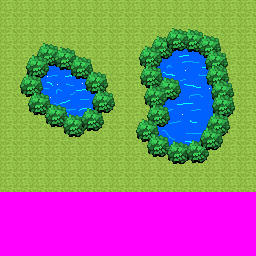
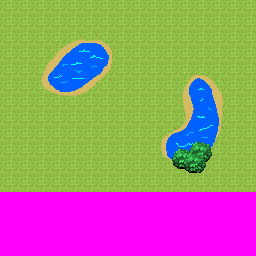
New map

Changed region(s): [[0.5312, 0.0938, 0.9375, 0.6875], [0.0625, 0.1562, 0.4688, 0.5312]]

diff --git a/source/main.c b/source/main.c
@@ -63,20 +63,20 @@ int main(void){
         memset(&w.monsterGrid, -1, 2*16*24);
 
         s16 map[16][24] = {{-1, -1, -1, -1, -1, -1, -1, -1, -1, -1, -1, -1, -1, -1, -1, -1, -1, -1, -1, -1, -1, -1, -1, -1},
-                           {-1, -1, -1, -1, -1, 255, -1, -1, -1, -1, -1, -1, -1, -1, -1, -1, -1, 255, -1, -1, -1, -1, -1, -1},
-                           {-1, -1, -1, 255, 255, 255, 255, -1, -1, -1, -1, -1, -1, -1, -1, 255, 255, 255, 255, -1, -1, -1, -1, -1},
-                           {-1, -1, -1, 255, 255, 255, 255, 255, -1, -1, -1, -1, -1, -1, -1, 255, 255, 255, 255, 255, -1, -1, -1, -1},
-                           {-1, -1, -1, 255, 255, 255, 255, 255, 255, -1, -1, -1, -1, -1, -1, 255, 255, 255, 255, 255, 255, -1, -1, -1},
-                           {-1, -1, -1, -1, 255, 255, 255, 255, -1, -1, -1, -1, -1, -1, -1, -1, 255, 255, 255, 255, -1, -1, -1, -1},
-                           {-1, -1, -1, -1, -1, 255, 255, -1, -1, -1, -1, -1, -1, -1, -1, -1, -1, 255, 255, -1, -1, -1, -1, -1},
                            {-1, -1, -1, -1, -1, -1, -1, -1, -1, -1, -1, -1, -1, -1, -1, -1, -1, -1, -1, -1, -1, -1, -1, -1},
                            {-1, -1, -1, -1, -1, -1, -1, -1, -1, -1, -1, -1, -1, -1, -1, -1, -1, -1, -1, -1, -1, -1, -1, -1},
-                           {-1, -1, 255, 255, 255, 255, 255, 255, 255, 255, -1, -1, -1, -1, 255, 255, 255, 255, 255, 255, 255, 255, -1, -1},
-                           {-1, -1, 255, 255, 255, 255, 255, 255, 255, 255, -1, -1, -1, -1, 255, 255, 255, 255, 255, 255, 255, 255, -1, -1},
-                           {-1, -1, 255, 255, 255, 255, 255, 255, 255, 255, -1, -1, -1, -1, 255, 255, 255, 255, 255, 255, 255, 255, -1, -1},
-                           {-1, -1, 255, 255, 255, 255, 255, 255, 255, 255, -1, -1, -1, -1, 255, 255, 255, 255, 255, 255, 255, 255, -1, -1},
-                           {-1, -1, 255, 255, 255, 255, 255, 255, 255, -1, -1, -1, -1, -1, 255, 255, 255, 255, 255, 255, 255, -1, -1, -1},
-                           {-1, -1, -1, -1, -1, 255, 255, -1, -1, -1, -1, -1, -1, -1, -1, -1, -1, 255, 255, -1, -1, -1, -1, -1},
+                           {-1, -1, -1, -1, 255, 255, -1, -1, -1, -1, -1, -1, -1, -1, -1, -1, 255, 255, -1, -1, -1, -1, -1, -1},
+                           {-1, -1, -1, 255, 255, 255, -1, -1, -1, -1, -1, -1, -1, -1, -1, 255, 255, 255, -1, -1, -1, -1, -1, -1},
+                           {-1, -1, 255, 255, 255, -1, -1, -1, -1, -1, -1, -1, -1, -1, 255, 255, 255, -1, -1, -1, -1, -1, -1, -1},
+                           {-1, -1, -1, 255, 255, -1, -1, -1, -1, -1, -1, -1, -1, -1, -1, 255, 255, -1, -1, -1, -1, -1, -1, -1},
+                           {-1, -1, -1, -1, -1, -1, -1, -1, -1, -1, -1, -1, -1, -1, -1, -1, -1, -1, -1, -1, -1, -1, -1, -1},
+                           {-1, -1, -1, -1, -1, -1, -1, -1, -1, -1, -1, -1, -1, -1, -1, -1, -1, -1, -1, -1, -1, -1, -1, -1},
+                           {-1, -1, -1, -1, -1, -1, -1, -1, -1, -1, -1, -1, -1, -1, -1, -1, -1, -1, -1, -1, -1, -1, -1, -1},
+                           {-1, -1, -1, -1, -1, -1, -1, -1, 255, 255, -1, -1, -1, -1, -1, -1, -1, -1, -1, -1, 255, 255, -1, -1},
+                           {-1, -1, -1, -1, -1, -1, -1, -1, 255, 255, -1, -1, -1, -1, -1, -1, -1, -1, -1, -1, 255, 255, -1, -1},
+                           {-1, -1, -1, -1, -1, 255, 255, 255, 255, 255, 255, -1, -1, -1, -1, -1, -1, 255, 255, 255, 255, 255, 255, -1},
+                           {-1, -1, -1, -1, -1, -1, 255, 255, 255, -1, -1, -1, -1, -1, -1, -1, -1, -1, 255, 255, 255, -1, -1, -1},
+                           {-1, -1, -1, -1, -1, -1, -1, -1, -1, -1, -1, -1, -1, -1, -1, -1, -1, -1, -1, -1, -1, -1, -1, -1},
                            {-1, -1, -1, -1, -1, -1, -1, -1, -1, -1, -1, -1, -1, -1, -1, -1, -1, -1, -1, -1, -1, -1, -1, -1}};
 
         memcpy(&w.towerGrid, &map, 2*16*24);

diff --git a/source/monsters.c b/source/monsters.c
@@ -128,8 +128,7 @@ void updateMonster(World *w, u8 i) {
 
             deleteMonster(w, i);
         }
-
-        if (dy == 1 && y == 12) {
+        else if (dy == 1 && y == 12) {
             switchMonsterScreen(w, i);
         }
         else if (dy == -1 && y == 11) {
